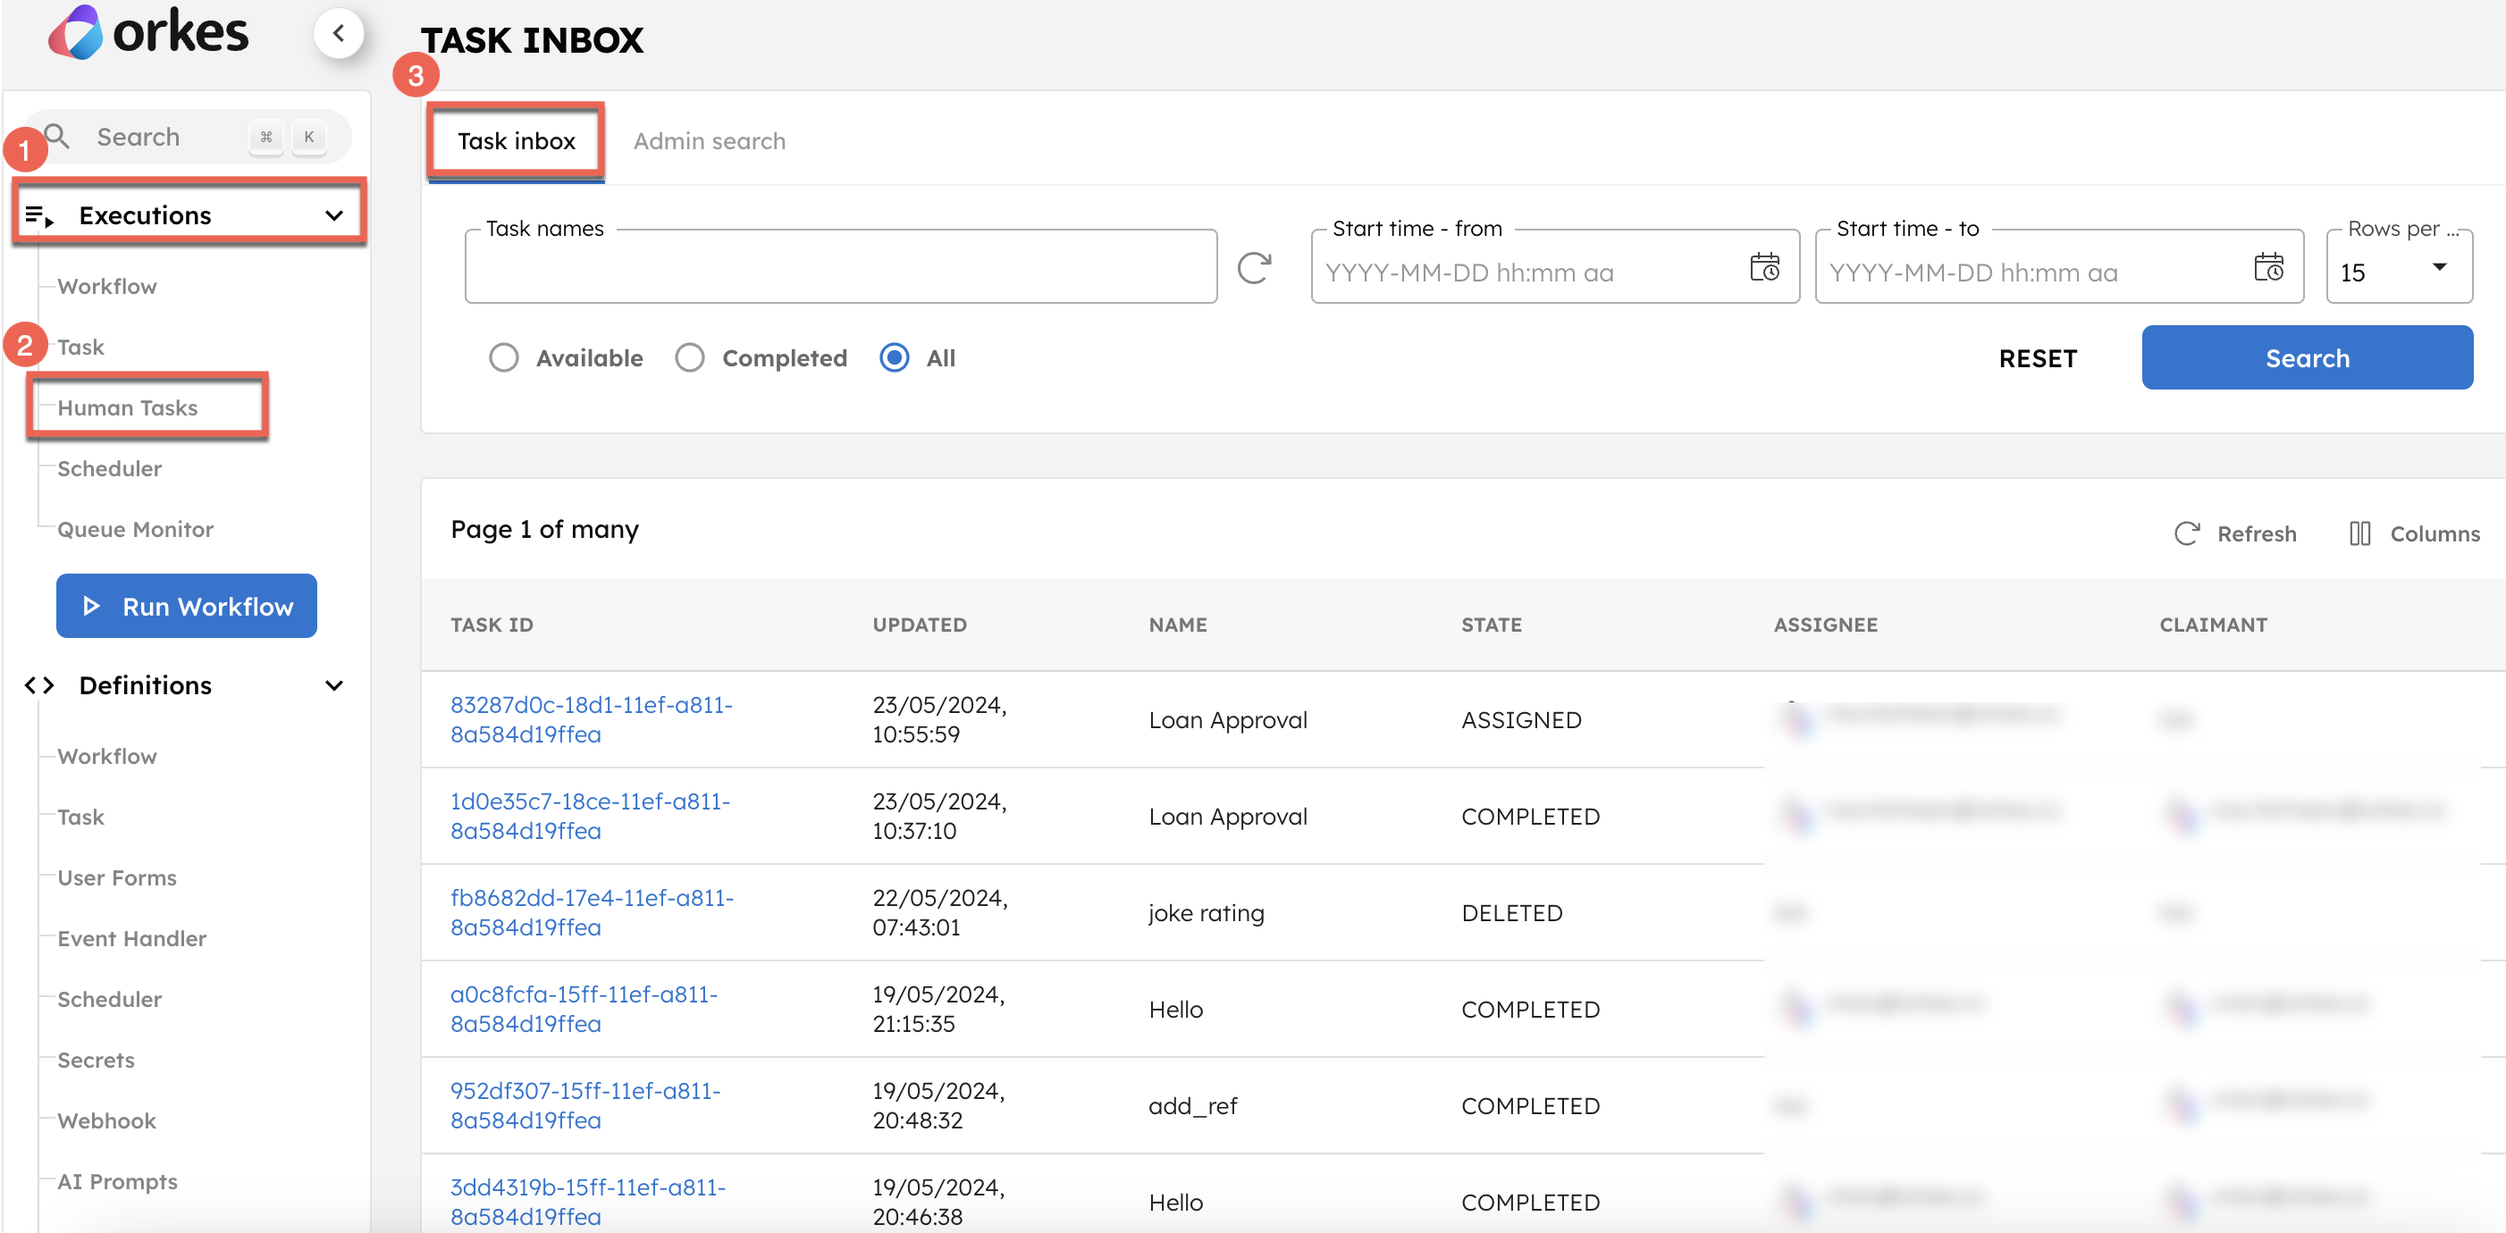
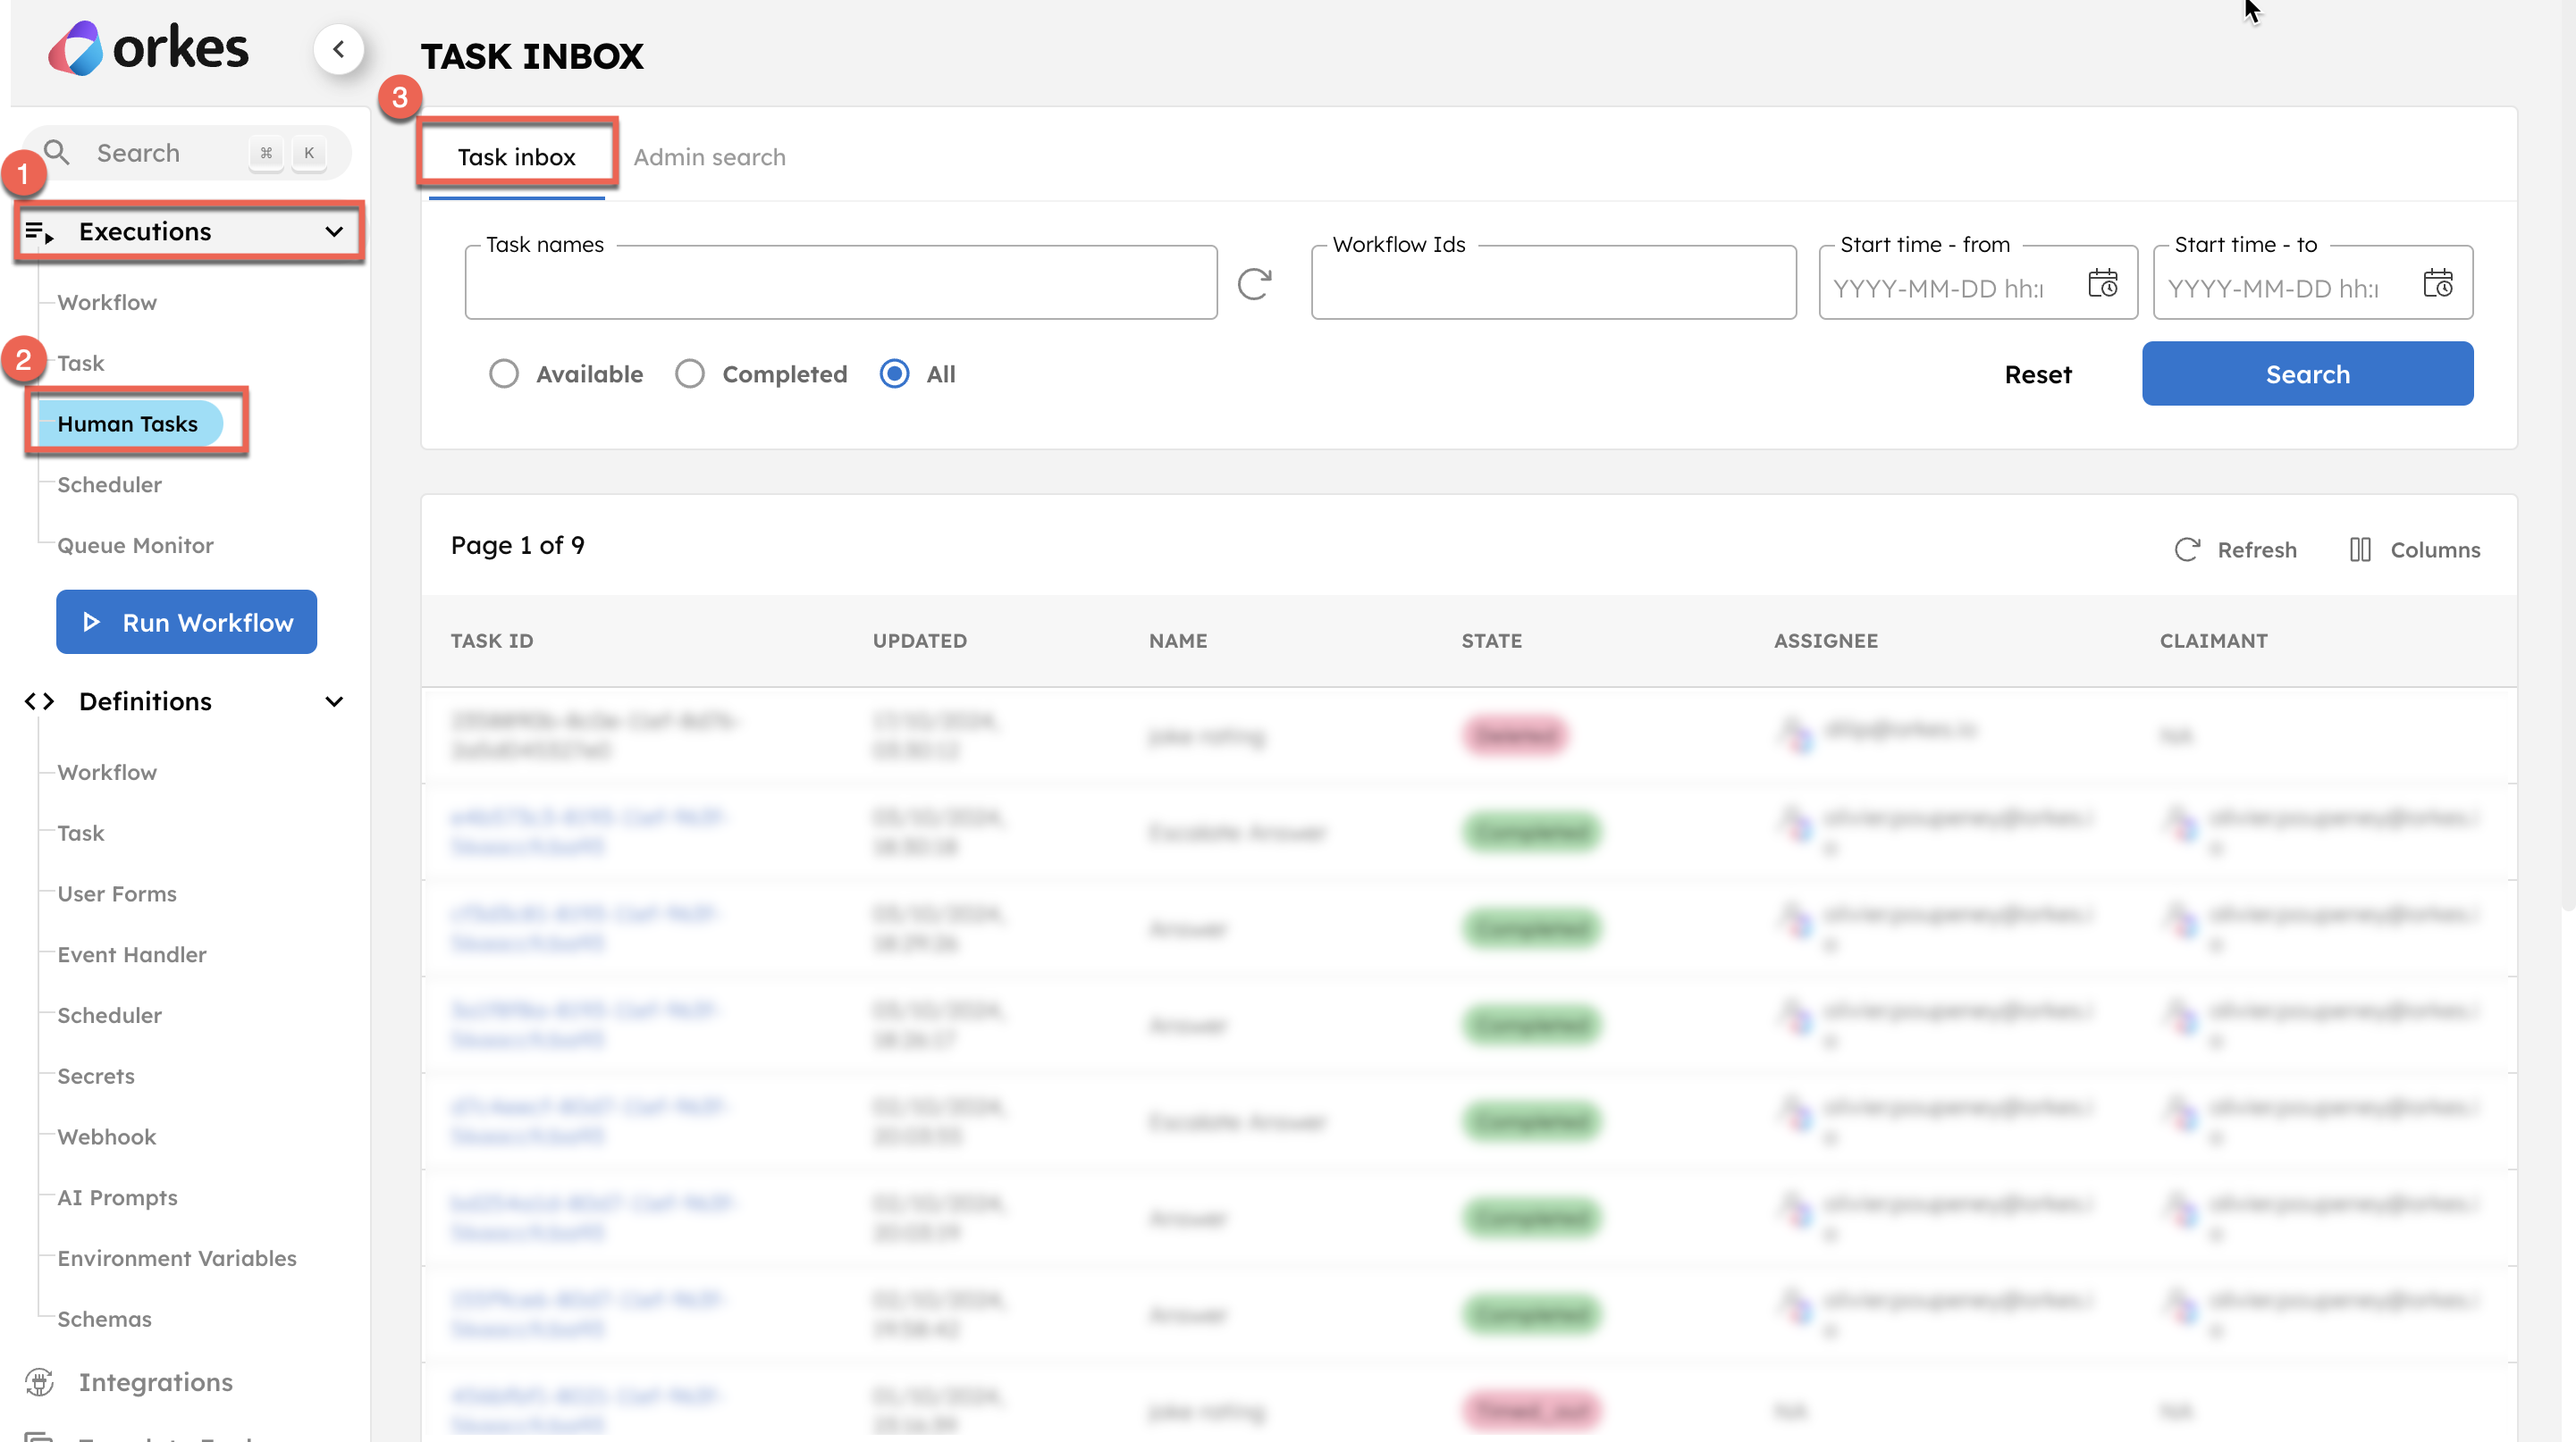
Updates

diff --git a/docs/developer-guides/orchestrating-human-tasks.md b/docs/developer-guides/orchestrating-human-tasks.md
@@ -283,7 +283,7 @@ The task inbox view is the non-admin regular user view that lists all the tasks 
 
 <p align="center"><img src="/content/img/human-task-inbox-view.png" alt="Task inbox view of human task execution" width="100%" height="auto"></img></p>
 
-* The executions can be filtered by task name and start time. You can also filter the executions by _Available_, _Completed_, or _All_.
+* The executions can be filtered by task name, workflow ID and start time. You can also filter the executions by _Available_, _Completed_, or _All_.
 * On the execution page, you can view the human task details, such as the task ID, Name (Task display name specified in the workflow definition), task state, assignee, claimant, etc.
 
 #### Admin search
@@ -305,6 +305,7 @@ If you are a cluster admin or task admin (workflow creator for the Human task), 
 | Start time | Filters based on the task execution time. |
 | Input data search | Filters based on the input data. |
 | Full-text search | Searches all data within the execution columns based on an “AND” and “OR” query. <p align="center"><img src="/content/img/full-text-search-human-task.png" alt="Full text view of human task executions" width="100%" height="auto"></img></p> For example, `“loan" OR "cc3d2dc-18d4-11ef-a811-8a584d19ffea"`. The search will return all results that contain either the text “loan” or the specific workflow ID “cc3d2dc-18d4-11ef-a811-8a584d19ffea”. To get results matching both criteria, use “AND” instead of “OR”. |
+| Workflow IDs | Filters based on the workflow execution IDs.|
 | Filter by actors | Filters based on Claimant or Assignee. |
 | Actor type | Filters based on the actor type for the selected actor. Supported values: <ul><li>Conductor User</li> <li>Conductor Group</li> <li>External User</li> <li>External Group</li> </ul> |
 | User/Group ID | Filters based on a particular user or group ID. |
